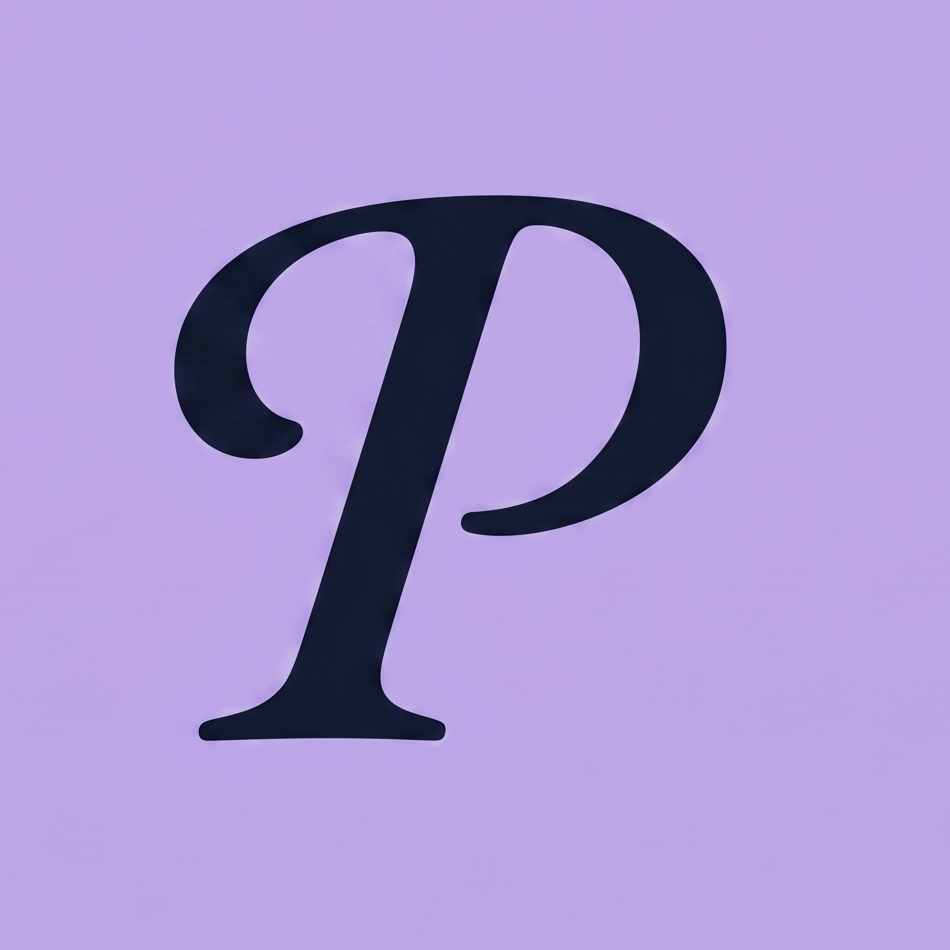
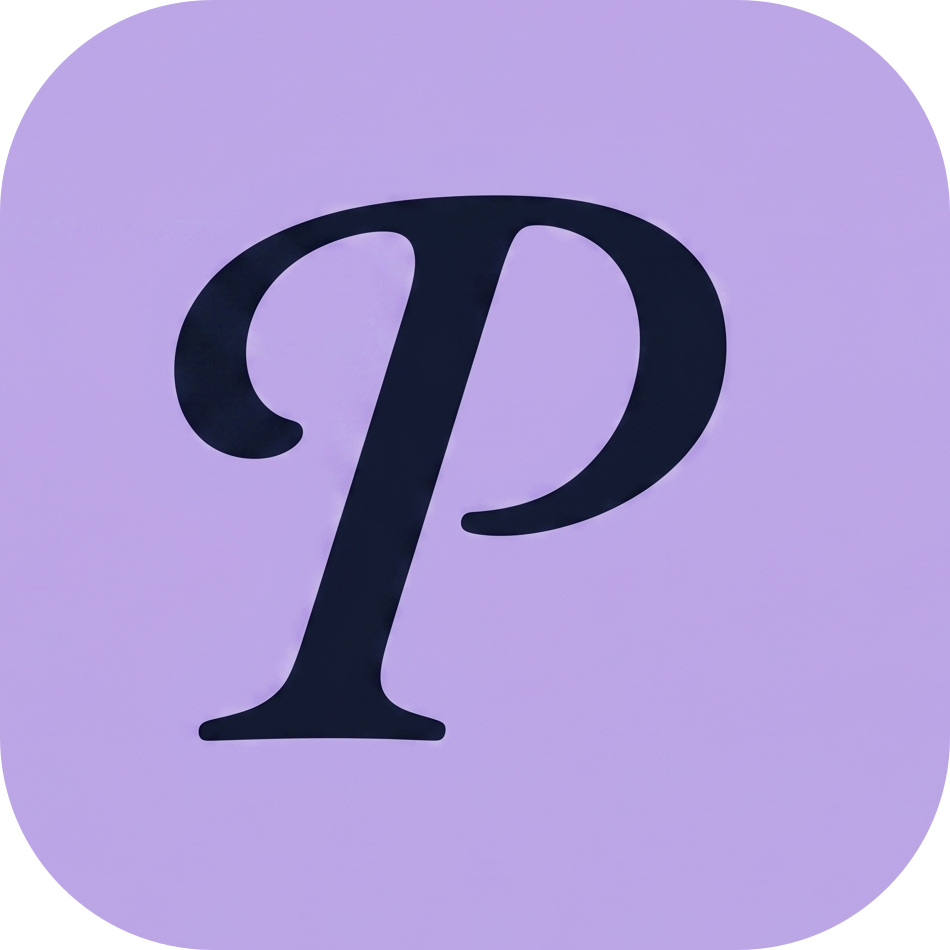
small UI fixes

diff --git a/components/layout/sidebar.tsx b/components/layout/sidebar.tsx
@@ -80,7 +80,7 @@ export function Sidebar({ forceExpanded = false, onClose }: SidebarProps) {
             width={22}
             height={22}
             priority
-            className="h-[22px] w-[22px] shrink-0 rounded-[5px]"
+            className="h-[22px] w-[22px] shrink-0"
           />
           {!isCollapsed && (
             <span className="font-serif text-[18px] leading-none tracking-tight text-sidebar-foreground">

diff --git a/app/login/page.tsx b/app/login/page.tsx
@@ -78,7 +78,7 @@ function LoginForm() {
             width={56}
             height={56}
             priority
-            className="mb-4 h-14 w-14 rounded-2xl"
+            className="mb-4 h-14 w-14"
           />
           <h1 className="font-serif text-[28px] font-medium leading-tight tracking-tight">
             Planner
